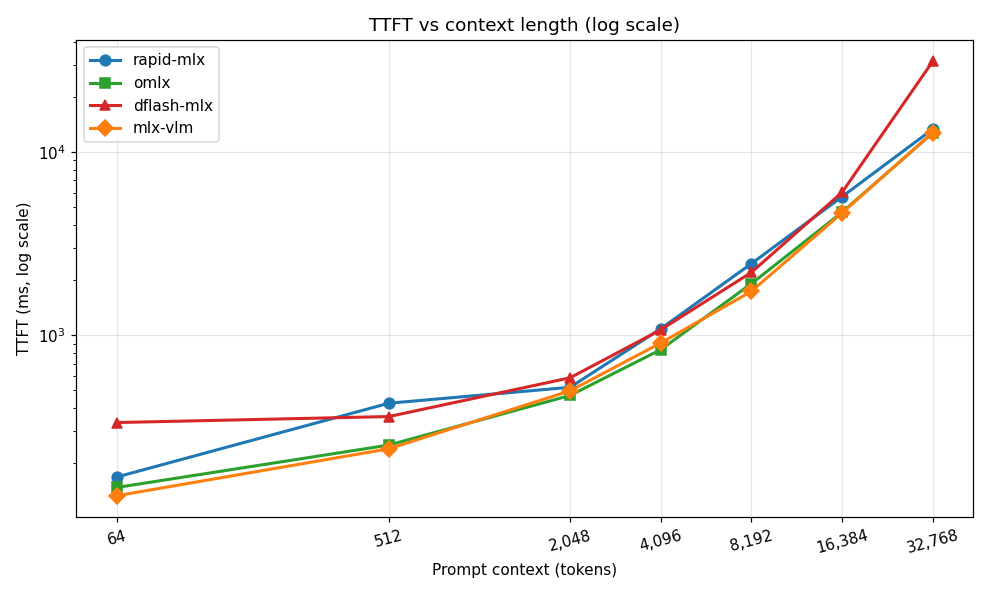
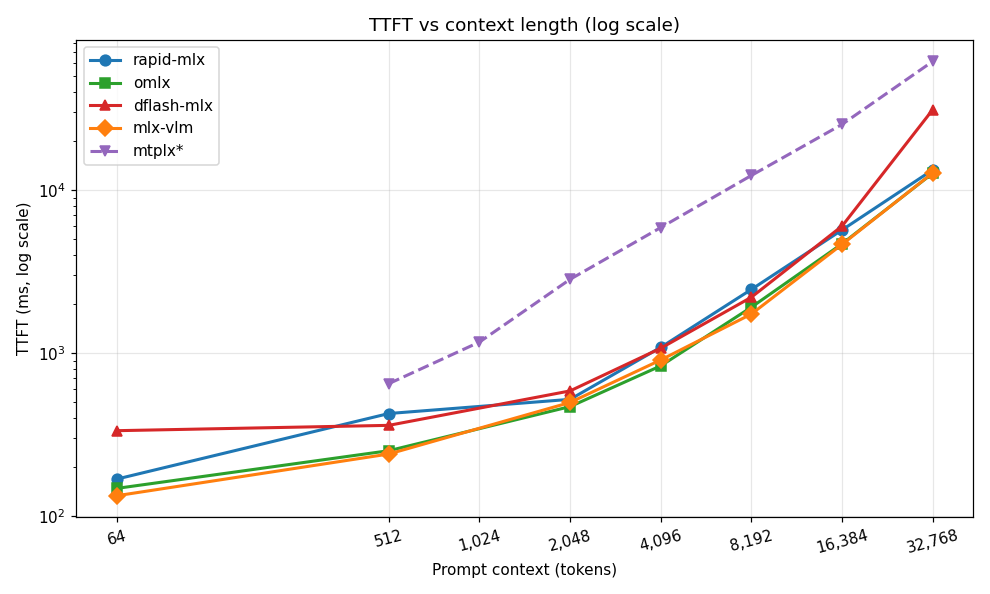
Add MTPLX × Qwen3.6-27B-MTPLX-Optimized-Speed results
Adds a 5th framework profile run with MTPLX's prefill-ladder against the
27B dense speed-optimized model (different from the 35B-MoE used by the
original 4 frameworks). Plotted as a dashed purple line with `*` footnote
in tables so it isn't mistaken for a peer comparison. Includes a dedicated
§4.1 with the full table plus peak memory (15.6 GB at 512 → 22.1 GB at
32K). Plot script now skips MTPLX in the stddev/box charts (n=1) and uses
each framework's smallest tested context as its own degradation baseline.

diff --git a/scripts/plot_results.py b/scripts/plot_results.py
@@ -28,12 +28,14 @@ ROOT = Path(__file__).resolve().parent.parent
 DATA = ROOT / "data"
 
 FRAMEWORKS = [
-    ("rapid-mlx", "rapid_v5.jsonl",  "#1f77b4", "o"),
-    ("omlx",      "omlx_v5.jsonl",   "#2ca02c", "s"),
-    ("dflash-mlx","dflash_v5.jsonl", "#d62728", "^"),
-    ("mlx-vlm",   "vlm_v5.jsonl",    "#ff7f0e", "D"),
+    ("rapid-mlx", "rapid_v5.jsonl",  "#1f77b4", "o", "-"),
+    ("omlx",      "omlx_v5.jsonl",   "#2ca02c", "s", "-"),
+    ("dflash-mlx","dflash_v5.jsonl", "#d62728", "^", "-"),
+    ("mlx-vlm",   "vlm_v5.jsonl",    "#ff7f0e", "D", "-"),
+    ("mtplx*",    "mtplx_v5.jsonl",  "#9467bd", "v", "--"),
 ]
-SIZES = [64, 512, 2048, 4096, 8192, 16384, 32768]
+MULTI_RUN = {"rapid-mlx", "omlx", "dflash-mlx", "mlx-vlm"}
+SIZES = [64, 512, 1024, 2048, 4096, 8192, 16384, 32768]
 
 LABELS = {
     "en": {
@@ -46,8 +48,8 @@ LABELS = {
         "ttft_y":        "TTFT (ms, log scale)",
         "box_title":     "Decode tps distribution (n=5 per cell)",
         "box_y":         "decode tps",
-        "deg_title":     "Decode degradation (baseline = each framework's tps at 64 tokens)",
-        "deg_y":         "Decode tps (% of 64-token baseline)",
+        "deg_title":     "Decode degradation (baseline = each framework's tps at its smallest tested context)",
+        "deg_y":         "Decode tps (% of own baseline)",
         "std_title":     "Decode stability (lower stddev = more stable)",
         "std_y":         "Decode tps stddev",
     },
@@ -61,8 +63,8 @@ LABELS = {
         "ttft_y":        "TTFT (ms, log scale)",
         "box_title":     "Decode tps 變異分佈（n=5/each）",
         "box_y":         "decode tps",
-        "deg_title":     "Decode 速度衰退曲線（基準 = 各框架在 64 tokens 的速度）",
-        "deg_y":         "Decode tps（相對於 64-token 基準的 %）",
+        "deg_title":     "Decode 速度衰退曲線（基準 = 各框架自己最小脈絡的速度）",
+        "deg_y":         "Decode tps（相對於各自基準的 %）",
         "std_title":     "Decode 速度穩定性（stddev 越低越穩定）",
         "std_y":         "Decode tps stddev",
     },
@@ -85,7 +87,7 @@ def median_for(rows, key):
 
 def plot_metric(charts_dir, L, metric_key, title_key, ylabel_key, fname, log_y=False):
     fig, ax = plt.subplots(figsize=(9, 5.4))
-    for name, fn, color, marker in FRAMEWORKS:
+    for name, fn, color, marker, ls in FRAMEWORKS:
         data = load(DATA / fn)
         x, y = [], []
         for sz in SIZES:
@@ -94,7 +96,8 @@ def plot_metric(charts_dir, L, metric_key, title_key, ylabel_key, fname, log_y=F
                 x.append(sz)
                 y.append(v)
         if x:
-            ax.plot(x, y, marker=marker, color=color, label=name, linewidth=2, markersize=7)
+            ax.plot(x, y, marker=marker, color=color, label=name,
+                    linewidth=2, markersize=7, linestyle=ls)
     ax.set_xscale("log", base=2)
     if log_y:
         ax.set_yscale("log")
@@ -114,17 +117,21 @@ def plot_metric(charts_dir, L, metric_key, title_key, ylabel_key, fname, log_y=F
 def plot_decode_box(charts_dir, L):
     fig, axes = plt.subplots(2, 4, figsize=(15, 7), sharey=False)
     axes = axes.flatten()
-    all_data = {name: load(DATA / fn) for name, fn, *_ in FRAMEWORKS}
+    multi_run = [f for f in FRAMEWORKS if f[0] in MULTI_RUN]
+    all_data = {name: load(DATA / fn) for name, fn, *_ in multi_run}
 
     for i, sz in enumerate(SIZES):
         ax = axes[i]
         bp_data, labels, colors = [], [], []
-        for name, _, color, _ in FRAMEWORKS:
+        for name, _, color, *_ in multi_run:
             vals = [r["decode_tps"] for r in all_data[name][sz] if r.get("decode_tps", 0) > 0]
             if vals:
                 bp_data.append(vals)
                 labels.append(name.replace("-mlx", "").replace("mlx-", ""))
                 colors.append(color)
+        if not bp_data:
+            ax.axis("off")
+            continue
         bp = ax.boxplot(bp_data, tick_labels=labels, patch_artist=True, widths=0.6)
         for patch, c in zip(bp["boxes"], colors):
             patch.set_facecolor(c)
@@ -134,7 +141,6 @@ def plot_decode_box(charts_dir, L):
         ax.grid(True, alpha=0.3, axis="y")
         ax.tick_params(axis="x", labelsize=8)
 
-    axes[7].axis("off")
     fig.suptitle(L["box_title"], fontsize=14)
     fig.tight_layout()
     fig.savefig(charts_dir / "decode_box.png")
@@ -144,9 +150,14 @@ def plot_decode_box(charts_dir, L):
 
 def plot_degradation(charts_dir, L):
     fig, ax = plt.subplots(figsize=(9, 5.4))
-    for name, fn, color, marker in FRAMEWORKS:
+    for name, fn, color, marker, ls in FRAMEWORKS:
         data = load(DATA / fn)
-        baseline = median_for(data[SIZES[0]], "decode_tps")
+        baseline = None
+        for sz in SIZES:
+            v = median_for(data[sz], "decode_tps")
+            if v:
+                baseline = v
+                break
         if not baseline:
             continue
         x, y = [], []
@@ -155,7 +166,8 @@ def plot_degradation(charts_dir, L):
             if v:
                 x.append(sz)
                 y.append(v / baseline * 100)
-        ax.plot(x, y, marker=marker, color=color, label=name, linewidth=2, markersize=7)
+        ax.plot(x, y, marker=marker, color=color, label=name,
+                linewidth=2, markersize=7, linestyle=ls)
     ax.set_xscale("log", base=2)
     ax.set_xticks(SIZES)
     ax.set_xticklabels([f"{s:,}" for s in SIZES], rotation=15)
@@ -173,8 +185,10 @@ def plot_degradation(charts_dir, L):
 
 def plot_decode_stddev(charts_dir, L):
     fig, ax = plt.subplots(figsize=(9, 5.4))
-    width = 0.2
-    for i, (name, fn, color, _) in enumerate(FRAMEWORKS):
+    multi_run = [f for f in FRAMEWORKS if f[0] in MULTI_RUN]
+    n = len(multi_run)
+    width = 0.8 / n
+    for i, (name, fn, color, *_) in enumerate(multi_run):
         data = load(DATA / fn)
         stds = []
         for sz in SIZES:
@@ -182,7 +196,7 @@ def plot_decode_stddev(charts_dir, L):
             stds.append(statistics.stdev(vals) if len(vals) > 1 else 0)
         xs = [j + i * width for j in range(len(SIZES))]
         ax.bar(xs, stds, width=width, color=color, label=name, alpha=0.8)
-    ax.set_xticks([j + 1.5 * width for j in range(len(SIZES))])
+    ax.set_xticks([j + (n - 1) / 2 * width for j in range(len(SIZES))])
     ax.set_xticklabels([f"{s:,}" for s in SIZES], rotation=15)
     ax.set_xlabel(L["x_context"])
     ax.set_ylabel(L["std_y"])

diff --git a/README.md b/README.md
@@ -6,13 +6,17 @@
 
 This repository contains the raw data, scripts, and analysis from a head-to-head speed comparison of four MLX inference frameworks running on Apple Silicon: **rapid-mlx**, **omlx**, **dflash-mlx**, and **mlx-vlm**. All four were tested against the same model (`mlx-community/Qwen3.6-35B-A3B-4bit`, a 4-bit quantized mixture-of-experts model with 35B total parameters and 3B active per token) across seven prompt-context lengths from 64 tokens up to 32,768 tokens, with five repeated runs per cell so we could measure both the typical performance and the variability.
 
-The short version of the conclusion: if you mostly serve long-context workloads (RAG, document summarization, code analysis on big files), use **omlx** — it has the fastest decode speed from 4K context onward and the most stable timing of any framework tested. If your prompts are short and your output is structured or predictable, **dflash-mlx** is the fastest by a wide margin at 64–2,048 tokens because its speculative decoding hits often on those workloads. But dflash-mlx fails catastrophically at 32K, dropping to 12.6 tokens per second — roughly six times slower than the others — so you absolutely cannot use it for long-context applications. Finally, **mlx-vlm** is the only framework here that supports image, video, and audio input, but for pure text it runs about 25–30% slower than the others, so reach for it only when you actually need multimodal capability.
+A fifth framework, **mtplx**, was added in a later run against a *different* model (`Youssofal/Qwen3.6-27B-MTPLX-Optimized-Speed`, a 27B dense model purpose-built for MTPLX with speculative-decoding optimizations). Because the model differs from the four-framework comparison, mtplx is plotted with a dashed line and marked with `*` in tables — its numbers are interesting on their own merits but not directly comparable to the others. See [§4.1 mtplx (different model)](#41-mtplx-different-model) for the standalone results and methodology.
+
+The short version of the conclusion: if you mostly serve long-context workloads (RAG, document summarization, code analysis on big files), use **omlx** — it has the fastest decode speed from 4K context onward and the most stable timing of any framework tested. If your prompts are short and your output is structured or predictable, **dflash-mlx** is the fastest by a wide margin at 64–2,048 tokens because its speculative decoding hits often on those workloads. But dflash-mlx fails catastrophically at 32K, dropping to 12.6 tokens per second — roughly six times slower than the others — so you absolutely cannot use it for long-context applications. **mlx-vlm** is the only framework here that supports image, video, and audio input, but for pure text it runs about 25–30% slower than the others, so reach for it only when you actually need multimodal capability. **mtplx** running its speed-optimized 27B model decodes at 31–60 tokens per second across the ladder with steady memory growth (15.6 GB at 512 tokens, 22.1 GB at 32K), so its appeal is the predictable memory envelope rather than peak throughput.
 
 ---
 
 ## 1. Test environment
 
-The hardware was an Apple M5 Max with 64 GB of unified memory. Every framework loaded the same target model (`mlx-community/Qwen3.6-35B-A3B-4bit`); only dflash-mlx additionally loaded the companion draft model `z-lab/Qwen3.6-35B-A3B-DFlash` to drive its speculative decoding. All servers exposed an OpenAI-compatible streaming endpoint at `/v1/chat/completions`, and the benchmark client talked to them via that endpoint, so the comparison is genuinely apples-to-apples at the API surface even though the internals differ. The tests were run on 2026-05-09.
+The hardware was an Apple M5 Max with 64 GB of unified memory. The four primary frameworks all loaded the same target model (`mlx-community/Qwen3.6-35B-A3B-4bit`); only dflash-mlx additionally loaded the companion draft model `z-lab/Qwen3.6-35B-A3B-DFlash` to drive its speculative decoding. All servers exposed an OpenAI-compatible streaming endpoint at `/v1/chat/completions`, and the benchmark client talked to them via that endpoint, so the comparison is genuinely apples-to-apples at the API surface even though the internals differ. Those tests were run on 2026-05-09.
+
+The follow-on **mtplx** run was conducted on 2026-05-16 against `Youssofal/Qwen3.6-27B-MTPLX-Optimized-Speed`, using MTPLX's built-in `prefill-ladder` harness rather than the shared HTTP client. Settings: `sustained` mode, MTP with `depth=3`, `disable-thinking` enabled, and `max_tokens=128` per cell. Only one run per context length was collected, and peak memory was sampled at each cell.
 
 ---
 
@@ -34,19 +38,19 @@ The benchmark client is at [`scripts/bench_inline.py`](scripts/bench_inline.py);
 
 ![Decode tps](charts/decode_tps.png)
 
-This is the headline chart. It plots median decode tokens per second against prompt context length. The picture tells the story: dflash-mlx (red) has dramatic peaks at 64 and 2,048 tokens where speculative decoding lands well, but its line cliff-dives at 32K. omlx (green) is the boring-but-effective straight line that beats everything from 4K onward. rapid-mlx (blue) starts strong at small context but degrades faster than omlx as context grows. mlx-vlm (orange) is consistently the slowest but also the flattest line.
+This is the headline chart. It plots median decode tokens per second against prompt context length. The picture tells the story: dflash-mlx (red) has dramatic peaks at 64 and 2,048 tokens where speculative decoding lands well, but its line cliff-dives at 32K. omlx (green) is the boring-but-effective straight line that beats everything from 4K onward. rapid-mlx (blue) starts strong at small context but degrades faster than omlx as context grows. mlx-vlm (orange) is consistently the slowest but also the flattest line. The dashed purple line is mtplx running its 27B speed-optimized model — it sits well below the four 35B-MoE frameworks because the 27B dense weights are heavier per active parameter, but the curve from 4K onward is unusually flat (43→31 tps from 4K to 32K).
 
 ### 3.2 Decode degradation curve
 
 ![Degradation](charts/degradation.png)
 
-The same data normalized so each framework starts at 100% of its own 64-token baseline. This isolates "how much does decoding slow down as the KV cache grows" from "which framework is fastest in absolute terms." omlx degrades the least (from 100% to 66% of baseline at 32K), mlx-vlm is even flatter relatively but only because its baseline was already lowest. rapid-mlx loses about 42% of its speed by 32K. dflash-mlx falls off a cliff: by 32K it's running at 7.5% of its 64-token speed.
+The same data normalized so each framework starts at 100% of its own smallest-context baseline (64 tokens for the original four; 512 tokens for mtplx, which wasn't run at 64). This isolates "how much does decoding slow down as the KV cache grows" from "which framework is fastest in absolute terms." omlx degrades the least (from 100% to 66% of baseline at 32K), mlx-vlm is even flatter relatively but only because its baseline was already lowest. rapid-mlx loses about 42% of its speed by 32K. dflash-mlx falls off a cliff: by 32K it's running at 7.5% of its 64-token speed. mtplx ends up at about 52% of its 512-token baseline at 32K — a steeper drop than omlx but with no cliff, which matches its calmer memory profile.
 
 ### 3.3 Decode stability (standard deviation)
 
 ![Decode stddev](charts/decode_stddev.png)
 
-This is the variability across the five runs at each context length. Lower bars mean the framework was more predictable, run to run. At short context every framework is stable (under 3 tps stddev), but as context grows you start to see real jitter. The takeaway here is that single-shot benchmarks become unreliable at 16K and beyond — your actual results in production might be ±5 tps from a single measurement, so when you're picking a framework based on long-context performance, run it multiple times yourself.
+This is the variability across the five runs at each context length. Lower bars mean the framework was more predictable, run to run. At short context every framework is stable (under 3 tps stddev), but as context grows you start to see real jitter. The takeaway here is that single-shot benchmarks become unreliable at 16K and beyond — your actual results in production might be ±5 tps from a single measurement, so when you're picking a framework based on long-context performance, run it multiple times yourself. *(mtplx is omitted from this chart and the boxplot below because only a single run was collected per context — there is no variance to plot.)*
 
 ### 3.4 Per-context decode distribution
 
@@ -58,29 +62,52 @@ Boxplots of decode tps for each (framework, context) cell. The boxes show the in
 
 ![Prefill tps](charts/prefill_tps.png)
 
-Prefill tokens per second measures how fast the model digests the prompt before it starts generating. dflash-mlx isn't shown because its OpenAI server doesn't return `prompt_tokens` in `usage` — we'd have to back it out from TTFT. The three frameworks we can measure all peak in the 4K–8K range, which is the sweet spot for the attention-and-bandwidth tradeoff on this hardware.
+Prefill tokens per second measures how fast the model digests the prompt before it starts generating. dflash-mlx isn't shown because its OpenAI server doesn't return `prompt_tokens` in `usage` — we'd have to back it out from TTFT. The three 35B-MoE frameworks we can measure all peak in the 4K–8K range, which is the sweet spot for the attention-and-bandwidth tradeoff on this hardware. mtplx's prefill is dramatically lower in absolute terms (peaks at 879 tps at 1K) because the 27B dense model is more prefill-heavy per token, and its TTFT cost dominates total latency well before decode does.
 
 ### 3.6 TTFT (time to first token, log scale)
 
 ![TTFT](charts/ttft.png)
 
-Time to first token is what your end user perceives as latency before the model starts streaming. The y-axis is log scale because TTFT spans nearly three orders of magnitude across context lengths. Note dflash-mlx jumping above the rest at 32K — that's the 31-second TTFT, more than twice everyone else.
+Time to first token is what your end user perceives as latency before the model starts streaming. The y-axis is log scale because TTFT spans nearly three orders of magnitude across context lengths. Note dflash-mlx jumping above the rest at 32K — that's the 31-second TTFT, more than twice everyone else. mtplx sits noticeably above the four 35B-MoE frameworks at every context length and reaches 62 seconds at 32K — its weaker prefill is the single biggest tax this configuration pays, so mtplx is much more attractive for short prompts than long ones.
 
 ---
 
 ## 4. Decode tps median summary table
 
-| Prompt size | rapid-mlx | omlx | dflash-mlx | mlx-vlm |
-|---:|---:|---:|---:|---:|
-| 64 | 124.9 | 123.7 | **167.3** | 95.5 |
-| 512 | 119.5 | 119.4 | **122.9** | 94.8 |
-| 2,048 | 102.5 | 121.1 | **160.1** | 88.5 |
-| 4,096 | 97.6 | **120.4** | 104.5 | 91.4 |
-| 8,192 | 90.3 | **118.0** | 96.3 | 87.2 |
-| 16,384 | 83.2 | **105.3** | 84.1 | 83.1 |
-| 32,768 | 72.3 | **82.1** | 12.6 ⚠ | 67.7 |
+| Prompt size | rapid-mlx | omlx | dflash-mlx | mlx-vlm | mtplx\* |
+|---:|---:|---:|---:|---:|---:|
+| 64 | 124.9 | 123.7 | **167.3** | 95.5 | — |
+| 512 | 119.5 | 119.4 | **122.9** | 94.8 | 59.8 |
+| 1,024 | — | — | — | — | 49.6 |
+| 2,048 | 102.5 | 121.1 | **160.1** | 88.5 | 55.7 |
+| 4,096 | 97.6 | **120.4** | 104.5 | 91.4 | 43.3 |
+| 8,192 | 90.3 | **118.0** | 96.3 | 87.2 | 43.1 |
+| 16,384 | 83.2 | **105.3** | 84.1 | 83.1 | 41.4 |
+| 32,768 | 72.3 | **82.1** | 12.6 ⚠ | 67.7 | 31.3 |
+
+\* mtplx ran a *different* model (`Youssofal/Qwen3.6-27B-MTPLX-Optimized-Speed`, 27B dense) and a different methodology (n=1, 128 output tokens, MTP depth=3, `disable-thinking`), so its column is not directly comparable to the others.
 
 For the full statistics — mean, standard deviation, min, max — see the per-framework deep-dive reports under [`reports/`](reports/).
+
+### 4.1 mtplx (different model)
+
+mtplx is included here as a reference point for what the MTPLX framework looks like on the model it was tuned for. Because both the runtime *and* the model differ from the other four cells, treat this section as a standalone profile rather than a fifth comparison column.
+
+**Configuration.** Model: `Youssofal/Qwen3.6-27B-MTPLX-Optimized-Speed`. Harness: MTPLX's built-in `prefill-ladder` in `sustained` mode, with `--mtp --depth 3 --disable-thinking --max-tokens 128`. Single run per context length.
+
+| Context | Decode tps | Prefill tps | TTFT | Peak memory |
+|---:|---:|---:|---:|---:|
+| 512 | 59.76 | 800.21 | 0.65 s | 15.58 GB |
+| 1,024 | 49.56 | 879.06 | 1.17 s | 16.18 GB |
+| 2,048 | 55.69 | 720.81 | 2.84 s | 17.29 GB |
+| 4,096 | 43.28 | 693.90 | 5.90 s | 17.73 GB |
+| 8,192 | 43.09 | 664.82 | 12.32 s | 18.37 GB |
+| 16,384 | 41.40 | 646.68 | 25.35 s | 19.62 GB |
+| 32,768 | 31.34 | 530.79 | 61.74 s | 22.12 GB |
+
+The shape of the curve is what stands out. Decode is roughly 50–60 tps in the short-context band (512–2K), slides into a 41–43 tps plateau from 4K through 16K, and only really gives up at 32K where it drops to 31 tps. The decode rate is well below the 35B-MoE frameworks because the 35B-MoE model only activates 3B parameters per token while this 27B dense model activates all 27B — memory-bandwidth-per-token is much higher. What compensates is the memory envelope: peak GPU memory grows from 15.6 GB at 512 tokens to only 22.1 GB at 32K, which is small enough that a 36 GB Mac would have headroom for the full ladder.
+
+The weak spot is TTFT. Prefill tops out below 900 tps and the 32K cell costs over a minute before the first token streams — so this configuration is much better suited to short prompts with long outputs than to RAG-style long-prompt workloads.
 
 ---
 
@@ -93,6 +120,8 @@ For retrieval-augmented generation, long-document summarization, or any workload
 For code generation specifically, dflash-mlx is worth considering even at moderate context lengths because code is highly predictable and speculative decoding hits more often on structured output than on free-form natural language. We saw 160 tokens per second at 2K context where the natural-language test produced only 122 — your code-completion workload might do better than even that.
 
 If you need to serve images, audio, or video to the model, mlx-vlm is the only choice in this set. The 25–30% slower text decode is a tax you pay for the multimodal stack, but if you need vision capability, no other framework here can deliver it. mlx-vlm does have an interesting feature we did not test: it supports `--draft-kind dflash`, which would in theory combine its strong prefill performance with dflash's decode speedup. If your context lengths are bounded under 8K, this combination might be the best of both worlds — but be aware of dflash's 32K problem.
+
+mtplx on the 27B speed-optimized model is worth considering if your bottleneck is memory rather than tokens-per-second, or if your prompts are short. Peak memory stays under 23 GB even at 32K context, so an M-series Mac with 36 GB unified memory has plenty of headroom; the cost is a decode rate that lands between 30 and 60 tps depending on context. It's a good fit for short-prompt, long-output generation (drafting, code completion, structured output) on memory-constrained machines, and a poor fit for long-context RAG where TTFT dominates total latency.
 
 For production deployments where stability and predictability matter more than peak speed, omlx is again the right call. Its standard deviation in TTFT and decode is the lowest in this benchmark, often by a factor of ten compared to rapid-mlx. If you're wiring up an SLA and need to make promises about p99 latency, omlx will let you make those promises more confidently.
 
@@ -108,6 +137,8 @@ The benchmark exposed a clear pattern: **omlx is the strongest all-around long-c
 
 **mlx-vlm is the multimodal special case**. For pure text it's the slowest in every cell. But it's the only framework here with vision and audio support, so the comparison is somewhat unfair: you don't pick mlx-vlm for raw text speed, you pick it because you need to feed it images.
 
+**mtplx is the memory-constrained option**, but evaluated against a different model so the comparison needs an asterisk. On its own 27B dense speed-optimized model it never crosses 60 tps and pays an outsized TTFT cost at long context, but it also keeps peak memory under 23 GB through 32K — substantially less than any of the four 35B-MoE frameworks would consume at the same context. If your hardware constraint is "fit in 24 GB at long context," mtplx + this model is one of the few combinations that meets that bar; if your constraint is "maximize throughput," it isn't competitive with omlx.
+
 The other major finding from this round was about benchmarking methodology itself. Single-shot speed numbers at long context are misleading — variance is real, and the difference between two frameworks at 32K can easily be smaller than the difference between two runs of the same framework. The five-run-with-warmup methodology used here costs about 10 extra minutes per framework, but it makes the difference between "this is faster" and "this looks faster on one run."
 
 ---
@@ -122,7 +153,8 @@ mlx_benchmark_lab/
 │   ├── rapid_v5.jsonl
 │   ├── omlx_v5.jsonl
 │   ├── dflash_v5.jsonl
-│   └── vlm_v5.jsonl
+│   ├── vlm_v5.jsonl
+│   └── mtplx_v5.jsonl            # mtplx + Qwen3.6-27B-MTPLX-Optimized-Speed (n=1)
 ├── logs/                         # Full test logs
 ├── scripts/
 │   ├── bench_inline.py           # Streaming benchmark client
@@ -174,6 +206,15 @@ python3 scripts/bench_inline.py \
 # 5. Generate charts
 python3 scripts/plot_results.py --lang en
 python3 scripts/plot_results.py --lang zh    # optional Chinese variant
+```
+
+The mtplx row in `data/mtplx_v5.jsonl` was produced with MTPLX's built-in `prefill-ladder` harness (not `bench_inline.py`), against `Youssofal/Qwen3.6-27B-MTPLX-Optimized-Speed`:
+
+```bash
+mtplx prefill-ladder \
+  --model /Users/david/.mtplx/models/Youssofal--Qwen3.6-27B-MTPLX-Optimized-Speed \
+  --mode sustained --mtp --depth 3 --disable-thinking \
+  --sizes 512,1024,2048,4096,8192,16384,32768 --max-tokens 128
 ```
 
 The bench script handles streaming, parses Server-Sent Events, separates thinking tokens (`reasoning_content`) from visible content tokens, and computes per-run statistics. It also handles the case where the server doesn't expose `/v1/cache/clear` by silently swallowing the 404.
